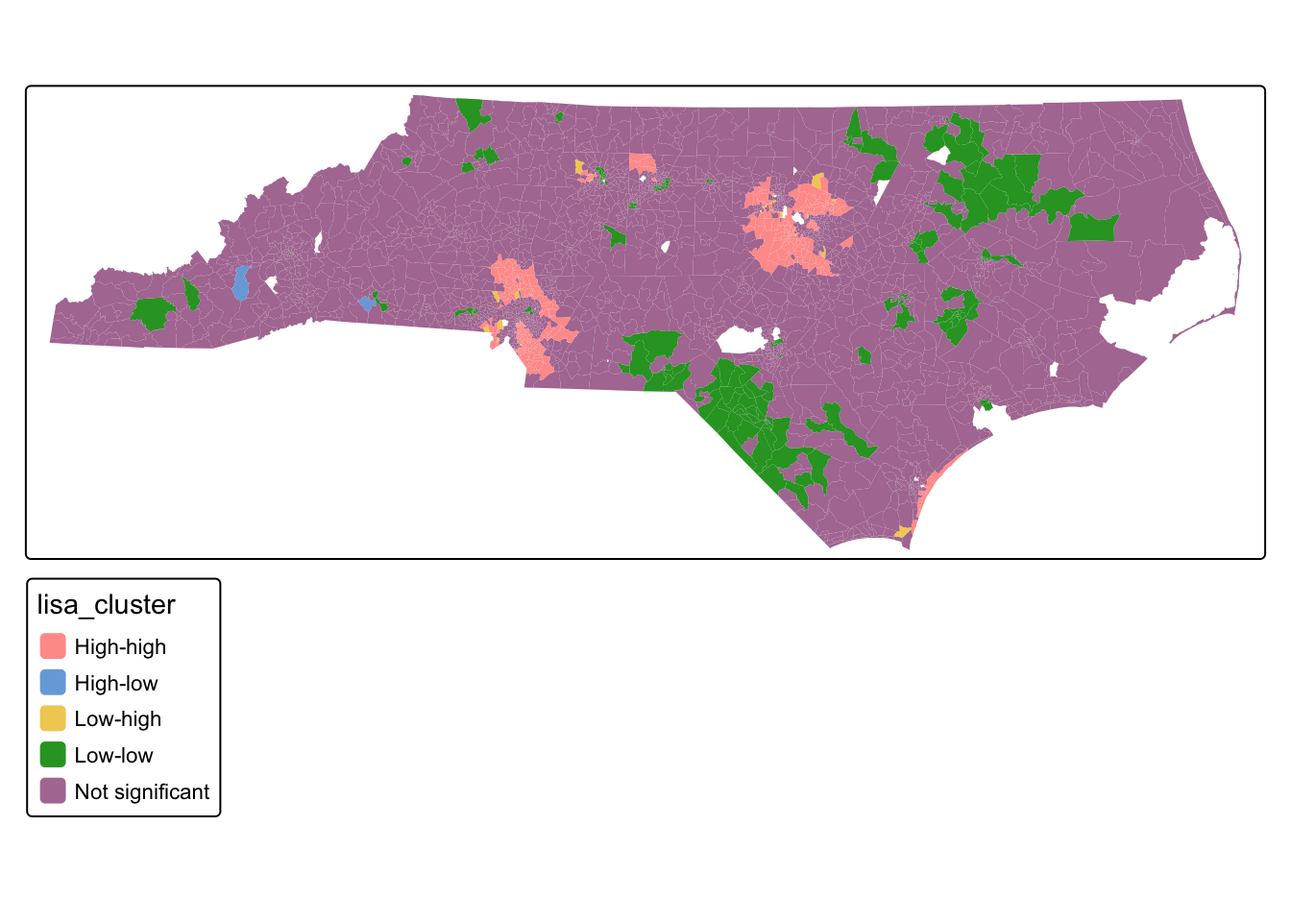
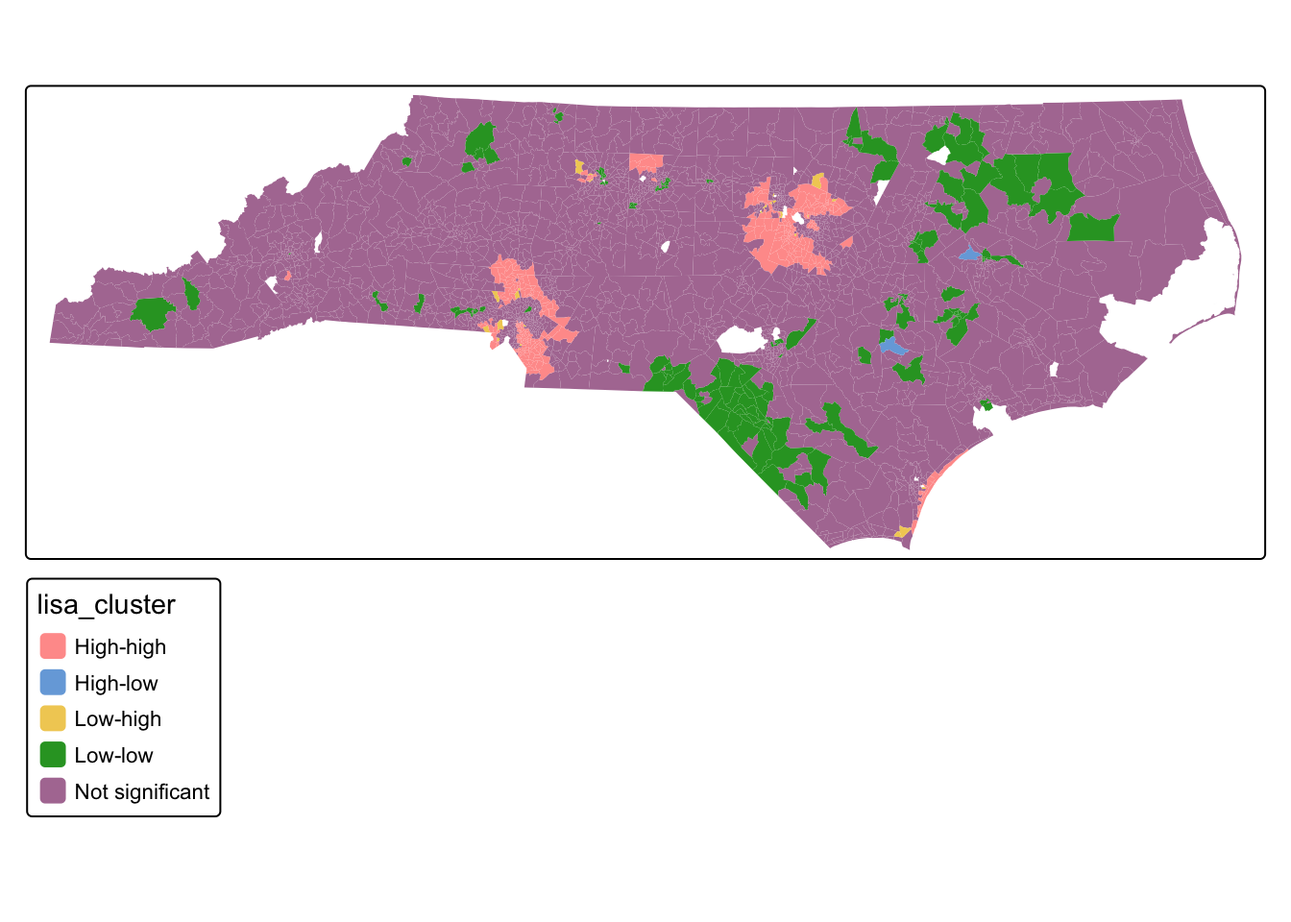
update autocorrelation

diff --git a/docs/autocorrelation.html b/docs/autocorrelation.html
@@ -445,12 +445,23 @@ pre > code.sourceCode > span > a:first-child::before { text-decoration: underlin
 <div class="sourceCode cell-code" id="cb7"><pre class="sourceCode r code-with-copy"><code class="sourceCode r"><span id="cb7-1"><a href="#cb7-1" aria-hidden="true" tabindex="-1"></a><span class="co">#calculate neighborhoods</span></span>
 <span id="cb7-2"><a href="#cb7-2" aria-hidden="true" tabindex="-1"></a>nb <span class="ot">&lt;-</span> <span class="fu">poly2nb</span>(tracts_sf, <span class="at">queen =</span> <span class="cn">TRUE</span>) <span class="co"># queen shares point or border</span></span>
 <span id="cb7-3"><a href="#cb7-3" aria-hidden="true" tabindex="-1"></a></span>
-<span id="cb7-4"><a href="#cb7-4" aria-hidden="true" tabindex="-1"></a><span class="co">#set neighborhood weight matrix</span></span>
-<span id="cb7-5"><a href="#cb7-5" aria-hidden="true" tabindex="-1"></a>nbw <span class="ot">&lt;-</span> <span class="fu">nb2listw</span>(nb, <span class="at">style =</span> <span class="st">"W"</span>)</span>
-<span id="cb7-6"><a href="#cb7-6" aria-hidden="true" tabindex="-1"></a></span>
-<span id="cb7-7"><a href="#cb7-7" aria-hidden="true" tabindex="-1"></a><span class="co">#calculate Morans I</span></span>
-<span id="cb7-8"><a href="#cb7-8" aria-hidden="true" tabindex="-1"></a>gmoran <span class="ot">&lt;-</span> <span class="fu">moran.mc</span>(tracts_sf<span class="sc">$</span>med_hh_inc, nbw, <span class="at">nsim =</span> <span class="dv">99</span>)</span>
-<span id="cb7-9"><a href="#cb7-9" aria-hidden="true" tabindex="-1"></a>gmoran</span></code><button title="Copy to Clipboard" class="code-copy-button"><i class="bi"></i></button></pre></div>
+<span id="cb7-4"><a href="#cb7-4" aria-hidden="true" tabindex="-1"></a><span class="co">#if you wanted to do k nearest neighbors</span></span>
+<span id="cb7-5"><a href="#cb7-5" aria-hidden="true" tabindex="-1"></a>coords <span class="ot">&lt;-</span> <span class="fu">st_coordinates</span>(<span class="fu">st_centroid</span>(tracts_sf))</span></code><button title="Copy to Clipboard" class="code-copy-button"><i class="bi"></i></button></pre></div>
+<div class="cell-output cell-output-stderr">
+<pre><code>Warning: st_centroid assumes attributes are constant over geometries</code></pre>
+</div>
+<div class="sourceCode cell-code" id="cb9"><pre class="sourceCode r code-with-copy"><code class="sourceCode r"><span id="cb9-1"><a href="#cb9-1" aria-hidden="true" tabindex="-1"></a>knn <span class="ot">&lt;-</span> <span class="fu">knearneigh</span>(coords, <span class="at">k =</span> <span class="dv">5</span>) <span class="co">#number of neighbors</span></span>
+<span id="cb9-2"><a href="#cb9-2" aria-hidden="true" tabindex="-1"></a>nb_k5 <span class="ot">&lt;-</span> <span class="fu">knn2nb</span>(knn) <span class="co">#put in nbw command below</span></span>
+<span id="cb9-3"><a href="#cb9-3" aria-hidden="true" tabindex="-1"></a></span>
+<span id="cb9-4"><a href="#cb9-4" aria-hidden="true" tabindex="-1"></a><span class="co">#if you wanted to do fixed distance then put nb_d in nbw command</span></span>
+<span id="cb9-5"><a href="#cb9-5" aria-hidden="true" tabindex="-1"></a>nb_d <span class="ot">&lt;-</span> <span class="fu">dnearneigh</span>(coords, <span class="at">d1 =</span> <span class="dv">0</span>, <span class="at">d2 =</span> <span class="dv">50000</span>) <span class="co">#d2 is how far in units (in our case ft)</span></span>
+<span id="cb9-6"><a href="#cb9-6" aria-hidden="true" tabindex="-1"></a></span>
+<span id="cb9-7"><a href="#cb9-7" aria-hidden="true" tabindex="-1"></a><span class="co">#set neighborhood weight matrix</span></span>
+<span id="cb9-8"><a href="#cb9-8" aria-hidden="true" tabindex="-1"></a>nbw <span class="ot">&lt;-</span> <span class="fu">nb2listw</span>(nb, <span class="at">style =</span> <span class="st">"W"</span>)</span>
+<span id="cb9-9"><a href="#cb9-9" aria-hidden="true" tabindex="-1"></a></span>
+<span id="cb9-10"><a href="#cb9-10" aria-hidden="true" tabindex="-1"></a><span class="co">#calculate Morans I</span></span>
+<span id="cb9-11"><a href="#cb9-11" aria-hidden="true" tabindex="-1"></a>gmoran <span class="ot">&lt;-</span> <span class="fu">moran.mc</span>(tracts_sf<span class="sc">$</span>med_hh_inc, nbw, <span class="at">nsim =</span> <span class="dv">99</span>)</span>
+<span id="cb9-12"><a href="#cb9-12" aria-hidden="true" tabindex="-1"></a>gmoran</span></code><button title="Copy to Clipboard" class="code-copy-button"><i class="bi"></i></button></pre></div>
 <div class="cell-output cell-output-stdout">
 <pre><code>
     Monte-Carlo simulation of Moran I
@@ -469,7 +480,7 @@ alternative hypothesis: greater</code></pre>
 <h3 data-number="16.4.2" class="anchored" data-anchor-id="global-autocorrelation-in-school-absence-rate"><span class="header-section-number">16.4.2</span> Global Autocorrelation in School Absence Rate</h3>
 <p>We can map chronic absence rate before Covid (which we’ve done before)</p>
 <div class="cell">
-<div class="sourceCode cell-code" id="cb9"><pre class="sourceCode r code-with-copy"><code class="sourceCode r"><span id="cb9-1"><a href="#cb9-1" aria-hidden="true" tabindex="-1"></a><span class="fu">tm_shape</span>(schools_sf) <span class="sc">+</span> <span class="fu">tm_dots</span>(<span class="at">fill =</span> <span class="st">"pre_covid_pct"</span>, <span class="at">fill.scale =</span> <span class="fu">tm_scale_intervals</span>(<span class="at">style =</span> <span class="st">"fisher"</span>), <span class="at">col_alpha =</span> <span class="dv">0</span>)</span></code><button title="Copy to Clipboard" class="code-copy-button"><i class="bi"></i></button></pre></div>
+<div class="sourceCode cell-code" id="cb11"><pre class="sourceCode r code-with-copy"><code class="sourceCode r"><span id="cb11-1"><a href="#cb11-1" aria-hidden="true" tabindex="-1"></a><span class="fu">tm_shape</span>(schools_sf) <span class="sc">+</span> <span class="fu">tm_dots</span>(<span class="at">fill =</span> <span class="st">"pre_covid_pct"</span>, <span class="at">fill.scale =</span> <span class="fu">tm_scale_intervals</span>(<span class="at">style =</span> <span class="st">"fisher"</span>), <span class="at">col_alpha =</span> <span class="dv">0</span>)</span></code><button title="Copy to Clipboard" class="code-copy-button"><i class="bi"></i></button></pre></div>
 <div class="cell-output-display">
 <div>
 <figure class="figure">
@@ -481,18 +492,31 @@ alternative hypothesis: greater</code></pre>
 <p><strong>Q2: Just by looking at the values on the map, do you see evidence of a spatial pattern?</strong></p>
 <p>We can then calculate Moran’s I using a our 20-mile distance-based neighborhood definition</p>
 <div class="cell">
-<div class="sourceCode cell-code" id="cb10"><pre class="sourceCode r code-with-copy"><code class="sourceCode r"><span id="cb10-1"><a href="#cb10-1" aria-hidden="true" tabindex="-1"></a><span class="co">#calculate neighborhoods</span></span>
-<span id="cb10-2"><a href="#cb10-2" aria-hidden="true" tabindex="-1"></a>nb_school <span class="ot">&lt;-</span> <span class="fu">dnearneigh</span>(schools_sf, <span class="at">d1 =</span> <span class="dv">0</span>, <span class="at">d2 =</span> <span class="dv">26400</span>) </span></code><button title="Copy to Clipboard" class="code-copy-button"><i class="bi"></i></button></pre></div>
+<div class="sourceCode cell-code" id="cb12"><pre class="sourceCode r code-with-copy"><code class="sourceCode r"><span id="cb12-1"><a href="#cb12-1" aria-hidden="true" tabindex="-1"></a><span class="co">#calculate neighborhoods</span></span>
+<span id="cb12-2"><a href="#cb12-2" aria-hidden="true" tabindex="-1"></a>nb_school <span class="ot">&lt;-</span> <span class="fu">dnearneigh</span>(schools_sf, <span class="at">d1 =</span> <span class="dv">0</span>, <span class="at">d2 =</span> <span class="dv">26400</span>) </span></code><button title="Copy to Clipboard" class="code-copy-button"><i class="bi"></i></button></pre></div>
 <div class="cell-output cell-output-stderr">
 <pre><code>Warning in dnearneigh(schools_sf, d1 = 0, d2 = 26400): neighbour object has 247
 sub-graphs</code></pre>
 </div>
-<div class="sourceCode cell-code" id="cb12"><pre class="sourceCode r code-with-copy"><code class="sourceCode r"><span id="cb12-1"><a href="#cb12-1" aria-hidden="true" tabindex="-1"></a><span class="co">#set neighborhood weight matrix</span></span>
-<span id="cb12-2"><a href="#cb12-2" aria-hidden="true" tabindex="-1"></a>nbw_school <span class="ot">&lt;-</span> <span class="fu">nb2listw</span>(nb_school, <span class="at">style =</span> <span class="st">"W"</span>, <span class="at">zero.policy =</span> T)</span>
-<span id="cb12-3"><a href="#cb12-3" aria-hidden="true" tabindex="-1"></a></span>
-<span id="cb12-4"><a href="#cb12-4" aria-hidden="true" tabindex="-1"></a><span class="co">#calculate Morans I</span></span>
-<span id="cb12-5"><a href="#cb12-5" aria-hidden="true" tabindex="-1"></a>gmoran_school <span class="ot">&lt;-</span> <span class="fu">moran.mc</span>(schools_sf<span class="sc">$</span>pre_covid_pct, nbw_school, <span class="at">nsim =</span> <span class="dv">99</span>)</span>
-<span id="cb12-6"><a href="#cb12-6" aria-hidden="true" tabindex="-1"></a>gmoran_school</span></code><button title="Copy to Clipboard" class="code-copy-button"><i class="bi"></i></button></pre></div>
+<div class="sourceCode cell-code" id="cb14"><pre class="sourceCode r code-with-copy"><code class="sourceCode r"><span id="cb14-1"><a href="#cb14-1" aria-hidden="true" tabindex="-1"></a><span class="do">###if you wanted to do knearest neighbor</span></span>
+<span id="cb14-2"><a href="#cb14-2" aria-hidden="true" tabindex="-1"></a>knn <span class="ot">&lt;-</span> <span class="fu">knearneigh</span>(schools_sf, <span class="at">k =</span> <span class="dv">5</span>) <span class="co">#number of neighbors</span></span></code><button title="Copy to Clipboard" class="code-copy-button"><i class="bi"></i></button></pre></div>
+<div class="cell-output cell-output-stderr">
+<pre><code>Warning in knearneigh(schools_sf, k = 5): knearneigh: identical points found</code></pre>
+</div>
+<div class="cell-output cell-output-stderr">
+<pre><code>Warning in knearneigh(schools_sf, k = 5): knearneigh: kd_tree not available for
+identical points</code></pre>
+</div>
+<div class="sourceCode cell-code" id="cb17"><pre class="sourceCode r code-with-copy"><code class="sourceCode r"><span id="cb17-1"><a href="#cb17-1" aria-hidden="true" tabindex="-1"></a>nb_k5 <span class="ot">&lt;-</span> <span class="fu">knn2nb</span>(knn) <span class="co">#put in nbw command below</span></span></code><button title="Copy to Clipboard" class="code-copy-button"><i class="bi"></i></button></pre></div>
+<div class="cell-output cell-output-stderr">
+<pre><code>Warning in knn2nb(knn): neighbour object has 9 sub-graphs</code></pre>
+</div>
+<div class="sourceCode cell-code" id="cb19"><pre class="sourceCode r code-with-copy"><code class="sourceCode r"><span id="cb19-1"><a href="#cb19-1" aria-hidden="true" tabindex="-1"></a><span class="co">#set neighborhood weight matrix</span></span>
+<span id="cb19-2"><a href="#cb19-2" aria-hidden="true" tabindex="-1"></a>nbw_school <span class="ot">&lt;-</span> <span class="fu">nb2listw</span>(nb_school, <span class="at">style =</span> <span class="st">"W"</span>, <span class="at">zero.policy =</span> T)</span>
+<span id="cb19-3"><a href="#cb19-3" aria-hidden="true" tabindex="-1"></a></span>
+<span id="cb19-4"><a href="#cb19-4" aria-hidden="true" tabindex="-1"></a><span class="co">#calculate Morans I</span></span>
+<span id="cb19-5"><a href="#cb19-5" aria-hidden="true" tabindex="-1"></a>gmoran_school <span class="ot">&lt;-</span> <span class="fu">moran.mc</span>(schools_sf<span class="sc">$</span>pre_covid_pct, nbw_school, <span class="at">nsim =</span> <span class="dv">99</span>)</span>
+<span id="cb19-6"><a href="#cb19-6" aria-hidden="true" tabindex="-1"></a>gmoran_school</span></code><button title="Copy to Clipboard" class="code-copy-button"><i class="bi"></i></button></pre></div>
 <div class="cell-output cell-output-stdout">
 <pre><code>
     Monte-Carlo simulation of Moran I
@@ -513,29 +537,29 @@ alternative hypothesis: greater</code></pre>
 <p>We know that both of our datasets are clustered because of our Moran’s I values (with median household income strongly clustered and chronic absence rate weakly clustered). However, we don’t know where, specifically, these high and low clusters are. Local Indicators of Spatial Autocorrelation quantify where statistically significant clusters exist in a dataset.</p>
 <p>For the median household income:</p>
 <div class="cell">
-<div class="sourceCode cell-code" id="cb14"><pre class="sourceCode r code-with-copy"><code class="sourceCode r"><span id="cb14-1"><a href="#cb14-1" aria-hidden="true" tabindex="-1"></a>locali<span class="ot">&lt;-</span><span class="fu">localmoran_perm</span>(tracts_sf<span class="sc">$</span>med_hh_inc, nbw) <span class="sc">%&gt;%</span></span>
-<span id="cb14-2"><a href="#cb14-2" aria-hidden="true" tabindex="-1"></a>  <span class="fu">as_tibble</span>() <span class="sc">%&gt;%</span></span>
-<span id="cb14-3"><a href="#cb14-3" aria-hidden="true" tabindex="-1"></a>  <span class="fu">set_names</span>(<span class="fu">c</span>(<span class="st">"local_i"</span>, <span class="st">"exp_i"</span>, <span class="st">"var_i"</span>, <span class="st">"z_i"</span>, <span class="st">"p_i"</span>,</span>
-<span id="cb14-4"><a href="#cb14-4" aria-hidden="true" tabindex="-1"></a>              <span class="st">"p_i_sim"</span>, <span class="st">"pi_sim_folded"</span>, <span class="st">"skewness"</span>, <span class="st">"kurtosis"</span>))</span>
-<span id="cb14-5"><a href="#cb14-5" aria-hidden="true" tabindex="-1"></a></span>
-<span id="cb14-6"><a href="#cb14-6" aria-hidden="true" tabindex="-1"></a><span class="co">#bind LISA results</span></span>
-<span id="cb14-7"><a href="#cb14-7" aria-hidden="true" tabindex="-1"></a>tracts_sf <span class="ot">&lt;-</span> tracts_sf <span class="sc">%&gt;%</span></span>
-<span id="cb14-8"><a href="#cb14-8" aria-hidden="true" tabindex="-1"></a>  <span class="fu">bind_cols</span>(locali)</span>
-<span id="cb14-9"><a href="#cb14-9" aria-hidden="true" tabindex="-1"></a></span>
-<span id="cb14-10"><a href="#cb14-10" aria-hidden="true" tabindex="-1"></a><span class="co">#Divide into quadrants</span></span>
-<span id="cb14-11"><a href="#cb14-11" aria-hidden="true" tabindex="-1"></a>tracts_sf <span class="ot">&lt;-</span> tracts_sf <span class="sc">%&gt;%</span></span>
-<span id="cb14-12"><a href="#cb14-12" aria-hidden="true" tabindex="-1"></a>  <span class="fu">mutate</span>(<span class="at">incz =</span>  <span class="fu">as.numeric</span>(<span class="fu">scale</span>(med_hh_inc)),</span>
-<span id="cb14-13"><a href="#cb14-13" aria-hidden="true" tabindex="-1"></a>         <span class="at">evratezlag =</span> <span class="fu">lag.listw</span>(nbw, incz),</span>
-<span id="cb14-14"><a href="#cb14-14" aria-hidden="true" tabindex="-1"></a>         <span class="at">lisa_cluster =</span> <span class="fu">case_when</span>(</span>
-<span id="cb14-15"><a href="#cb14-15" aria-hidden="true" tabindex="-1"></a>           p_i <span class="sc">&gt;=</span> <span class="fl">0.05</span> <span class="sc">~</span> <span class="st">"Not significant"</span>,</span>
-<span id="cb14-16"><a href="#cb14-16" aria-hidden="true" tabindex="-1"></a>           incz <span class="sc">&gt;</span> <span class="dv">0</span> <span class="sc">&amp;</span> local_i <span class="sc">&gt;</span> <span class="dv">0</span> <span class="sc">~</span> <span class="st">"High-high"</span>,</span>
-<span id="cb14-17"><a href="#cb14-17" aria-hidden="true" tabindex="-1"></a>           incz <span class="sc">&gt;</span> <span class="dv">0</span> <span class="sc">&amp;</span> local_i <span class="sc">&lt;</span> <span class="dv">0</span> <span class="sc">~</span> <span class="st">"High-low"</span>,</span>
-<span id="cb14-18"><a href="#cb14-18" aria-hidden="true" tabindex="-1"></a>           incz <span class="sc">&lt;</span> <span class="dv">0</span> <span class="sc">&amp;</span> local_i <span class="sc">&gt;</span> <span class="dv">0</span> <span class="sc">~</span> <span class="st">"Low-low"</span>,</span>
-<span id="cb14-19"><a href="#cb14-19" aria-hidden="true" tabindex="-1"></a>           incz <span class="sc">&lt;</span> <span class="dv">0</span> <span class="sc">&amp;</span> local_i <span class="sc">&lt;</span> <span class="dv">0</span> <span class="sc">~</span> <span class="st">"Low-high"</span></span>
-<span id="cb14-20"><a href="#cb14-20" aria-hidden="true" tabindex="-1"></a>         ))</span>
-<span id="cb14-21"><a href="#cb14-21" aria-hidden="true" tabindex="-1"></a></span>
-<span id="cb14-22"><a href="#cb14-22" aria-hidden="true" tabindex="-1"></a><span class="co">#Map</span></span>
-<span id="cb14-23"><a href="#cb14-23" aria-hidden="true" tabindex="-1"></a><span class="fu">tm_shape</span>(tracts_sf) <span class="sc">+</span> <span class="fu">tm_polygons</span>(<span class="st">"lisa_cluster"</span>, <span class="at">col_alpha =</span> <span class="dv">0</span>)</span></code><button title="Copy to Clipboard" class="code-copy-button"><i class="bi"></i></button></pre></div>
+<div class="sourceCode cell-code" id="cb21"><pre class="sourceCode r code-with-copy"><code class="sourceCode r"><span id="cb21-1"><a href="#cb21-1" aria-hidden="true" tabindex="-1"></a>locali<span class="ot">&lt;-</span><span class="fu">localmoran_perm</span>(tracts_sf<span class="sc">$</span>med_hh_inc, nbw) <span class="sc">%&gt;%</span></span>
+<span id="cb21-2"><a href="#cb21-2" aria-hidden="true" tabindex="-1"></a>  <span class="fu">as_tibble</span>() <span class="sc">%&gt;%</span></span>
+<span id="cb21-3"><a href="#cb21-3" aria-hidden="true" tabindex="-1"></a>  <span class="fu">set_names</span>(<span class="fu">c</span>(<span class="st">"local_i"</span>, <span class="st">"exp_i"</span>, <span class="st">"var_i"</span>, <span class="st">"z_i"</span>, <span class="st">"p_i"</span>,</span>
+<span id="cb21-4"><a href="#cb21-4" aria-hidden="true" tabindex="-1"></a>              <span class="st">"p_i_sim"</span>, <span class="st">"pi_sim_folded"</span>, <span class="st">"skewness"</span>, <span class="st">"kurtosis"</span>))</span>
+<span id="cb21-5"><a href="#cb21-5" aria-hidden="true" tabindex="-1"></a></span>
+<span id="cb21-6"><a href="#cb21-6" aria-hidden="true" tabindex="-1"></a><span class="co">#bind LISA results</span></span>
+<span id="cb21-7"><a href="#cb21-7" aria-hidden="true" tabindex="-1"></a>tracts_sf <span class="ot">&lt;-</span> tracts_sf <span class="sc">%&gt;%</span></span>
+<span id="cb21-8"><a href="#cb21-8" aria-hidden="true" tabindex="-1"></a>  <span class="fu">bind_cols</span>(locali)</span>
+<span id="cb21-9"><a href="#cb21-9" aria-hidden="true" tabindex="-1"></a></span>
+<span id="cb21-10"><a href="#cb21-10" aria-hidden="true" tabindex="-1"></a><span class="co">#Divide into quadrants</span></span>
+<span id="cb21-11"><a href="#cb21-11" aria-hidden="true" tabindex="-1"></a>tracts_sf <span class="ot">&lt;-</span> tracts_sf <span class="sc">%&gt;%</span></span>
+<span id="cb21-12"><a href="#cb21-12" aria-hidden="true" tabindex="-1"></a>  <span class="fu">mutate</span>(<span class="at">incz =</span>  <span class="fu">as.numeric</span>(<span class="fu">scale</span>(med_hh_inc)),</span>
+<span id="cb21-13"><a href="#cb21-13" aria-hidden="true" tabindex="-1"></a>         <span class="at">evratezlag =</span> <span class="fu">lag.listw</span>(nbw, incz),</span>
+<span id="cb21-14"><a href="#cb21-14" aria-hidden="true" tabindex="-1"></a>         <span class="at">lisa_cluster =</span> <span class="fu">case_when</span>(</span>
+<span id="cb21-15"><a href="#cb21-15" aria-hidden="true" tabindex="-1"></a>           p_i <span class="sc">&gt;=</span> <span class="fl">0.05</span> <span class="sc">~</span> <span class="st">"Not significant"</span>,</span>
+<span id="cb21-16"><a href="#cb21-16" aria-hidden="true" tabindex="-1"></a>           incz <span class="sc">&gt;</span> <span class="dv">0</span> <span class="sc">&amp;</span> local_i <span class="sc">&gt;</span> <span class="dv">0</span> <span class="sc">~</span> <span class="st">"High-high"</span>,</span>
+<span id="cb21-17"><a href="#cb21-17" aria-hidden="true" tabindex="-1"></a>           incz <span class="sc">&gt;</span> <span class="dv">0</span> <span class="sc">&amp;</span> local_i <span class="sc">&lt;</span> <span class="dv">0</span> <span class="sc">~</span> <span class="st">"High-low"</span>,</span>
+<span id="cb21-18"><a href="#cb21-18" aria-hidden="true" tabindex="-1"></a>           incz <span class="sc">&lt;</span> <span class="dv">0</span> <span class="sc">&amp;</span> local_i <span class="sc">&gt;</span> <span class="dv">0</span> <span class="sc">~</span> <span class="st">"Low-low"</span>,</span>
+<span id="cb21-19"><a href="#cb21-19" aria-hidden="true" tabindex="-1"></a>           incz <span class="sc">&lt;</span> <span class="dv">0</span> <span class="sc">&amp;</span> local_i <span class="sc">&lt;</span> <span class="dv">0</span> <span class="sc">~</span> <span class="st">"Low-high"</span></span>
+<span id="cb21-20"><a href="#cb21-20" aria-hidden="true" tabindex="-1"></a>         ))</span>
+<span id="cb21-21"><a href="#cb21-21" aria-hidden="true" tabindex="-1"></a></span>
+<span id="cb21-22"><a href="#cb21-22" aria-hidden="true" tabindex="-1"></a><span class="co">#Map</span></span>
+<span id="cb21-23"><a href="#cb21-23" aria-hidden="true" tabindex="-1"></a><span class="fu">tm_shape</span>(tracts_sf) <span class="sc">+</span> <span class="fu">tm_polygons</span>(<span class="st">"lisa_cluster"</span>, <span class="at">col_alpha =</span> <span class="dv">0</span>)</span></code><button title="Copy to Clipboard" class="code-copy-button"><i class="bi"></i></button></pre></div>
 <div class="cell-output-display">
 <div>
 <figure class="figure">
@@ -547,29 +571,29 @@ alternative hypothesis: greater</code></pre>
 <p><strong>Q2: What is the spatial pattern of clustering in the median household income variable?</strong></p>
 <p>For the school chronic absences:</p>
 <div class="cell">
-<div class="sourceCode cell-code" id="cb15"><pre class="sourceCode r code-with-copy"><code class="sourceCode r"><span id="cb15-1"><a href="#cb15-1" aria-hidden="true" tabindex="-1"></a>locali_school<span class="ot">&lt;-</span><span class="fu">localmoran_perm</span>(schools_sf<span class="sc">$</span>pre_covid_pct, nbw_school) <span class="sc">%&gt;%</span></span>
-<span id="cb15-2"><a href="#cb15-2" aria-hidden="true" tabindex="-1"></a>  <span class="fu">as_tibble</span>() <span class="sc">%&gt;%</span></span>
-<span id="cb15-3"><a href="#cb15-3" aria-hidden="true" tabindex="-1"></a>  <span class="fu">set_names</span>(<span class="fu">c</span>(<span class="st">"local_i"</span>, <span class="st">"exp_i"</span>, <span class="st">"var_i"</span>, <span class="st">"z_i"</span>, <span class="st">"p_i"</span>,</span>
-<span id="cb15-4"><a href="#cb15-4" aria-hidden="true" tabindex="-1"></a>              <span class="st">"p_i_sim"</span>, <span class="st">"pi_sim_folded"</span>, <span class="st">"skewness"</span>, <span class="st">"kurtosis"</span>))</span>
-<span id="cb15-5"><a href="#cb15-5" aria-hidden="true" tabindex="-1"></a></span>
-<span id="cb15-6"><a href="#cb15-6" aria-hidden="true" tabindex="-1"></a><span class="co">#bind LISA results</span></span>
-<span id="cb15-7"><a href="#cb15-7" aria-hidden="true" tabindex="-1"></a>schools_sf <span class="ot">&lt;-</span> schools_sf <span class="sc">%&gt;%</span></span>
-<span id="cb15-8"><a href="#cb15-8" aria-hidden="true" tabindex="-1"></a>  <span class="fu">bind_cols</span>(locali_school)</span>
-<span id="cb15-9"><a href="#cb15-9" aria-hidden="true" tabindex="-1"></a></span>
-<span id="cb15-10"><a href="#cb15-10" aria-hidden="true" tabindex="-1"></a><span class="co">#Divide into quadrants</span></span>
-<span id="cb15-11"><a href="#cb15-11" aria-hidden="true" tabindex="-1"></a>schools_sf  <span class="ot">&lt;-</span> schools_sf  <span class="sc">%&gt;%</span></span>
-<span id="cb15-12"><a href="#cb15-12" aria-hidden="true" tabindex="-1"></a>  <span class="fu">mutate</span>(<span class="at">absz =</span>  <span class="fu">as.numeric</span>(<span class="fu">scale</span>(pre_covid_pct)),</span>
-<span id="cb15-13"><a href="#cb15-13" aria-hidden="true" tabindex="-1"></a>         <span class="at">evratezlag =</span> <span class="fu">lag.listw</span>(nbw_school, absz),</span>
-<span id="cb15-14"><a href="#cb15-14" aria-hidden="true" tabindex="-1"></a>         <span class="at">lisa_cluster =</span> <span class="fu">case_when</span>(</span>
-<span id="cb15-15"><a href="#cb15-15" aria-hidden="true" tabindex="-1"></a>           p_i <span class="sc">&gt;=</span> <span class="fl">0.05</span> <span class="sc">~</span> <span class="st">"Not significant"</span>,</span>
-<span id="cb15-16"><a href="#cb15-16" aria-hidden="true" tabindex="-1"></a>           absz <span class="sc">&gt;</span> <span class="dv">0</span> <span class="sc">&amp;</span> local_i <span class="sc">&gt;</span> <span class="dv">0</span> <span class="sc">~</span> <span class="st">"High-high"</span>,</span>
-<span id="cb15-17"><a href="#cb15-17" aria-hidden="true" tabindex="-1"></a>           absz <span class="sc">&gt;</span> <span class="dv">0</span> <span class="sc">&amp;</span> local_i <span class="sc">&lt;</span> <span class="dv">0</span> <span class="sc">~</span> <span class="st">"High-low"</span>,</span>
-<span id="cb15-18"><a href="#cb15-18" aria-hidden="true" tabindex="-1"></a>           absz <span class="sc">&lt;</span> <span class="dv">0</span> <span class="sc">&amp;</span> local_i <span class="sc">&gt;</span> <span class="dv">0</span> <span class="sc">~</span> <span class="st">"Low-low"</span>,</span>
-<span id="cb15-19"><a href="#cb15-19" aria-hidden="true" tabindex="-1"></a>           absz <span class="sc">&lt;</span> <span class="dv">0</span> <span class="sc">&amp;</span> local_i <span class="sc">&lt;</span> <span class="dv">0</span> <span class="sc">~</span> <span class="st">"Low-high"</span></span>
-<span id="cb15-20"><a href="#cb15-20" aria-hidden="true" tabindex="-1"></a>         ))</span>
-<span id="cb15-21"><a href="#cb15-21" aria-hidden="true" tabindex="-1"></a></span>
-<span id="cb15-22"><a href="#cb15-22" aria-hidden="true" tabindex="-1"></a><span class="co">#Map</span></span>
-<span id="cb15-23"><a href="#cb15-23" aria-hidden="true" tabindex="-1"></a><span class="fu">tm_shape</span>(schools_sf ) <span class="sc">+</span> <span class="fu">tm_dots</span>(<span class="st">"lisa_cluster"</span>, <span class="at">col_alpha =</span> <span class="dv">0</span>)</span></code><button title="Copy to Clipboard" class="code-copy-button"><i class="bi"></i></button></pre></div>
+<div class="sourceCode cell-code" id="cb22"><pre class="sourceCode r code-with-copy"><code class="sourceCode r"><span id="cb22-1"><a href="#cb22-1" aria-hidden="true" tabindex="-1"></a>locali_school<span class="ot">&lt;-</span><span class="fu">localmoran_perm</span>(schools_sf<span class="sc">$</span>pre_covid_pct, nbw_school) <span class="sc">%&gt;%</span></span>
+<span id="cb22-2"><a href="#cb22-2" aria-hidden="true" tabindex="-1"></a>  <span class="fu">as_tibble</span>() <span class="sc">%&gt;%</span></span>
+<span id="cb22-3"><a href="#cb22-3" aria-hidden="true" tabindex="-1"></a>  <span class="fu">set_names</span>(<span class="fu">c</span>(<span class="st">"local_i"</span>, <span class="st">"exp_i"</span>, <span class="st">"var_i"</span>, <span class="st">"z_i"</span>, <span class="st">"p_i"</span>,</span>
+<span id="cb22-4"><a href="#cb22-4" aria-hidden="true" tabindex="-1"></a>              <span class="st">"p_i_sim"</span>, <span class="st">"pi_sim_folded"</span>, <span class="st">"skewness"</span>, <span class="st">"kurtosis"</span>))</span>
+<span id="cb22-5"><a href="#cb22-5" aria-hidden="true" tabindex="-1"></a></span>
+<span id="cb22-6"><a href="#cb22-6" aria-hidden="true" tabindex="-1"></a><span class="co">#bind LISA results</span></span>
+<span id="cb22-7"><a href="#cb22-7" aria-hidden="true" tabindex="-1"></a>schools_sf <span class="ot">&lt;-</span> schools_sf <span class="sc">%&gt;%</span></span>
+<span id="cb22-8"><a href="#cb22-8" aria-hidden="true" tabindex="-1"></a>  <span class="fu">bind_cols</span>(locali_school)</span>
+<span id="cb22-9"><a href="#cb22-9" aria-hidden="true" tabindex="-1"></a></span>
+<span id="cb22-10"><a href="#cb22-10" aria-hidden="true" tabindex="-1"></a><span class="co">#Divide into quadrants</span></span>
+<span id="cb22-11"><a href="#cb22-11" aria-hidden="true" tabindex="-1"></a>schools_sf  <span class="ot">&lt;-</span> schools_sf  <span class="sc">%&gt;%</span></span>
+<span id="cb22-12"><a href="#cb22-12" aria-hidden="true" tabindex="-1"></a>  <span class="fu">mutate</span>(<span class="at">absz =</span>  <span class="fu">as.numeric</span>(<span class="fu">scale</span>(pre_covid_pct)),</span>
+<span id="cb22-13"><a href="#cb22-13" aria-hidden="true" tabindex="-1"></a>         <span class="at">evratezlag =</span> <span class="fu">lag.listw</span>(nbw_school, absz),</span>
+<span id="cb22-14"><a href="#cb22-14" aria-hidden="true" tabindex="-1"></a>         <span class="at">lisa_cluster =</span> <span class="fu">case_when</span>(</span>
+<span id="cb22-15"><a href="#cb22-15" aria-hidden="true" tabindex="-1"></a>           p_i <span class="sc">&gt;=</span> <span class="fl">0.05</span> <span class="sc">~</span> <span class="st">"Not significant"</span>,</span>
+<span id="cb22-16"><a href="#cb22-16" aria-hidden="true" tabindex="-1"></a>           absz <span class="sc">&gt;</span> <span class="dv">0</span> <span class="sc">&amp;</span> local_i <span class="sc">&gt;</span> <span class="dv">0</span> <span class="sc">~</span> <span class="st">"High-high"</span>,</span>
+<span id="cb22-17"><a href="#cb22-17" aria-hidden="true" tabindex="-1"></a>           absz <span class="sc">&gt;</span> <span class="dv">0</span> <span class="sc">&amp;</span> local_i <span class="sc">&lt;</span> <span class="dv">0</span> <span class="sc">~</span> <span class="st">"High-low"</span>,</span>
+<span id="cb22-18"><a href="#cb22-18" aria-hidden="true" tabindex="-1"></a>           absz <span class="sc">&lt;</span> <span class="dv">0</span> <span class="sc">&amp;</span> local_i <span class="sc">&gt;</span> <span class="dv">0</span> <span class="sc">~</span> <span class="st">"Low-low"</span>,</span>
+<span id="cb22-19"><a href="#cb22-19" aria-hidden="true" tabindex="-1"></a>           absz <span class="sc">&lt;</span> <span class="dv">0</span> <span class="sc">&amp;</span> local_i <span class="sc">&lt;</span> <span class="dv">0</span> <span class="sc">~</span> <span class="st">"Low-high"</span></span>
+<span id="cb22-20"><a href="#cb22-20" aria-hidden="true" tabindex="-1"></a>         ))</span>
+<span id="cb22-21"><a href="#cb22-21" aria-hidden="true" tabindex="-1"></a></span>
+<span id="cb22-22"><a href="#cb22-22" aria-hidden="true" tabindex="-1"></a><span class="co">#Map</span></span>
+<span id="cb22-23"><a href="#cb22-23" aria-hidden="true" tabindex="-1"></a><span class="fu">tm_shape</span>(schools_sf ) <span class="sc">+</span> <span class="fu">tm_dots</span>(<span class="st">"lisa_cluster"</span>, <span class="at">col_alpha =</span> <span class="dv">0</span>)</span></code><button title="Copy to Clipboard" class="code-copy-button"><i class="bi"></i></button></pre></div>
 <div class="cell-output-display">
 <div>
 <figure class="figure">
